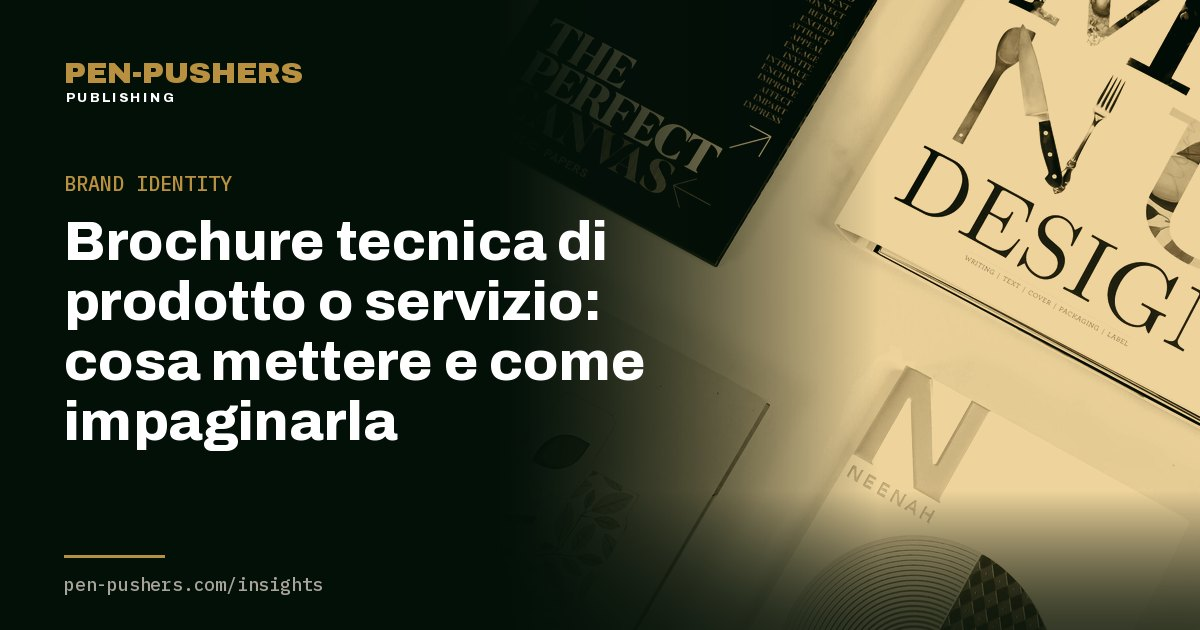
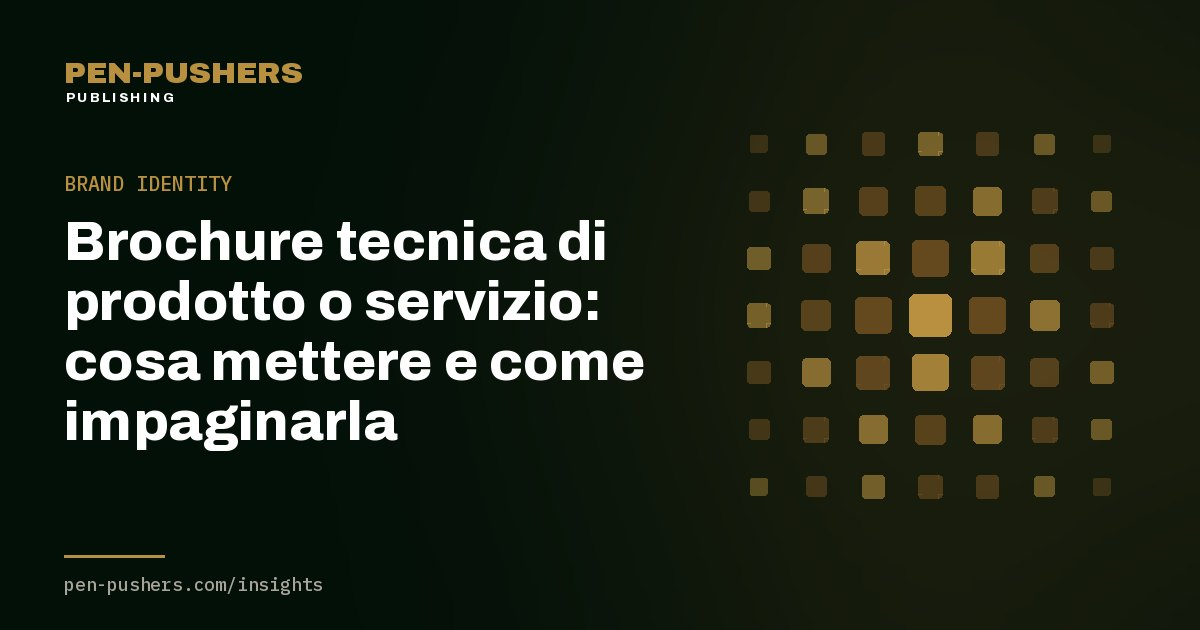
Insights 2026-11-17: nuova foto per la brochure tecnica (senza marchi visibili)

diff --git a/brochure-tecnica-prodotto-servizio-cosa-mettere-come-impaginarla.html b/brochure-tecnica-prodotto-servizio-cosa-mettere-come-impaginarla.html
@@ -144,7 +144,7 @@
       <div class="byline mono"><span>Di Manuel Ruisi</span><span><time datetime="2026-11-17">17 novembre 2026</time></span><span>6 min di lettura</span></div>
     </header>
     <img class="art-cover rise d2" src="/insights/img/covers/brochure-tecnica-prodotto-servizio-cosa-mettere-come-impaginarla.jpg" alt="Brochure tecnica di prodotto o servizio: cosa mettere e come impaginarla" width="1200" height="630">
-    <p class="credit mono">Foto di <a href="https://unsplash.com/photos/design-books-and-paper-brochures-NmSPbe0bDtc" rel="noopener" target="_blank">2H Media</a> su Unsplash</p>
+    <p class="credit mono">Foto di <a href="https://unsplash.com/photos/printing-machine-Tzm3Oyu_6sk" rel="noopener" target="_blank">Bank Phrom</a> su Unsplash</p>
     <article class="body">
 <h2>Il problema: la brochure che nessuno legge fino in fondo</h2>
 <p>Un'azienda che installa celle frigorifere va da un ristorante per un sopralluogo. A fine visita il titolare chiede: "Mi lascia qualcosa da far vedere al mio socio?". Il tecnico tira fuori un pieghevole di qualche anno fa: tre foto di repertorio, un elenco di marchi, la frase "qualità e professionalità dal 1998" e un numero di telefono che non è più quello giusto.</p>
